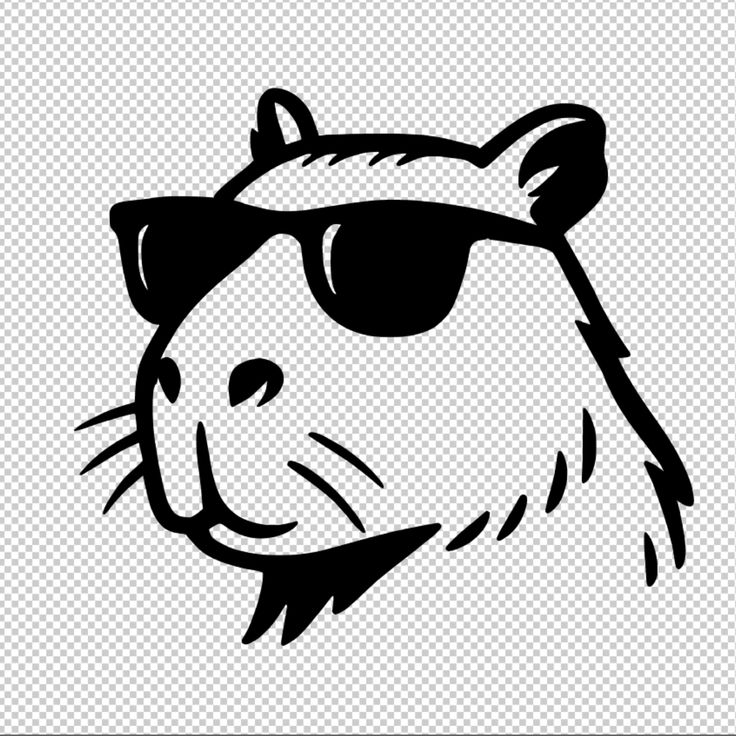
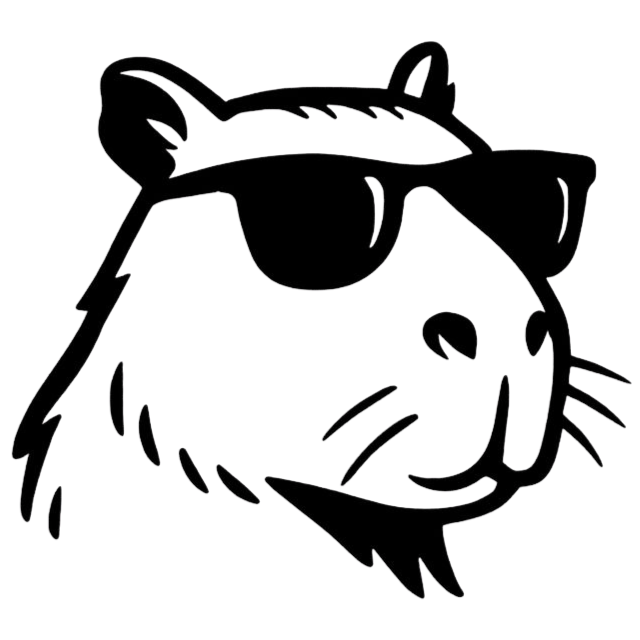
a

diff --git a/perfil-leonardo/index.html b/perfil-leonardo/index.html
@@ -150,7 +150,7 @@
   <header class="site-header">
     <div class="header-left">
       <div class="logo-box">
-        <img src="capiva.png" alt="Logo">
+        <img src="capivara.png" alt="Logo">
       </div>
       <div class="name-large">Leonardo Nickson</div>
     </div>
